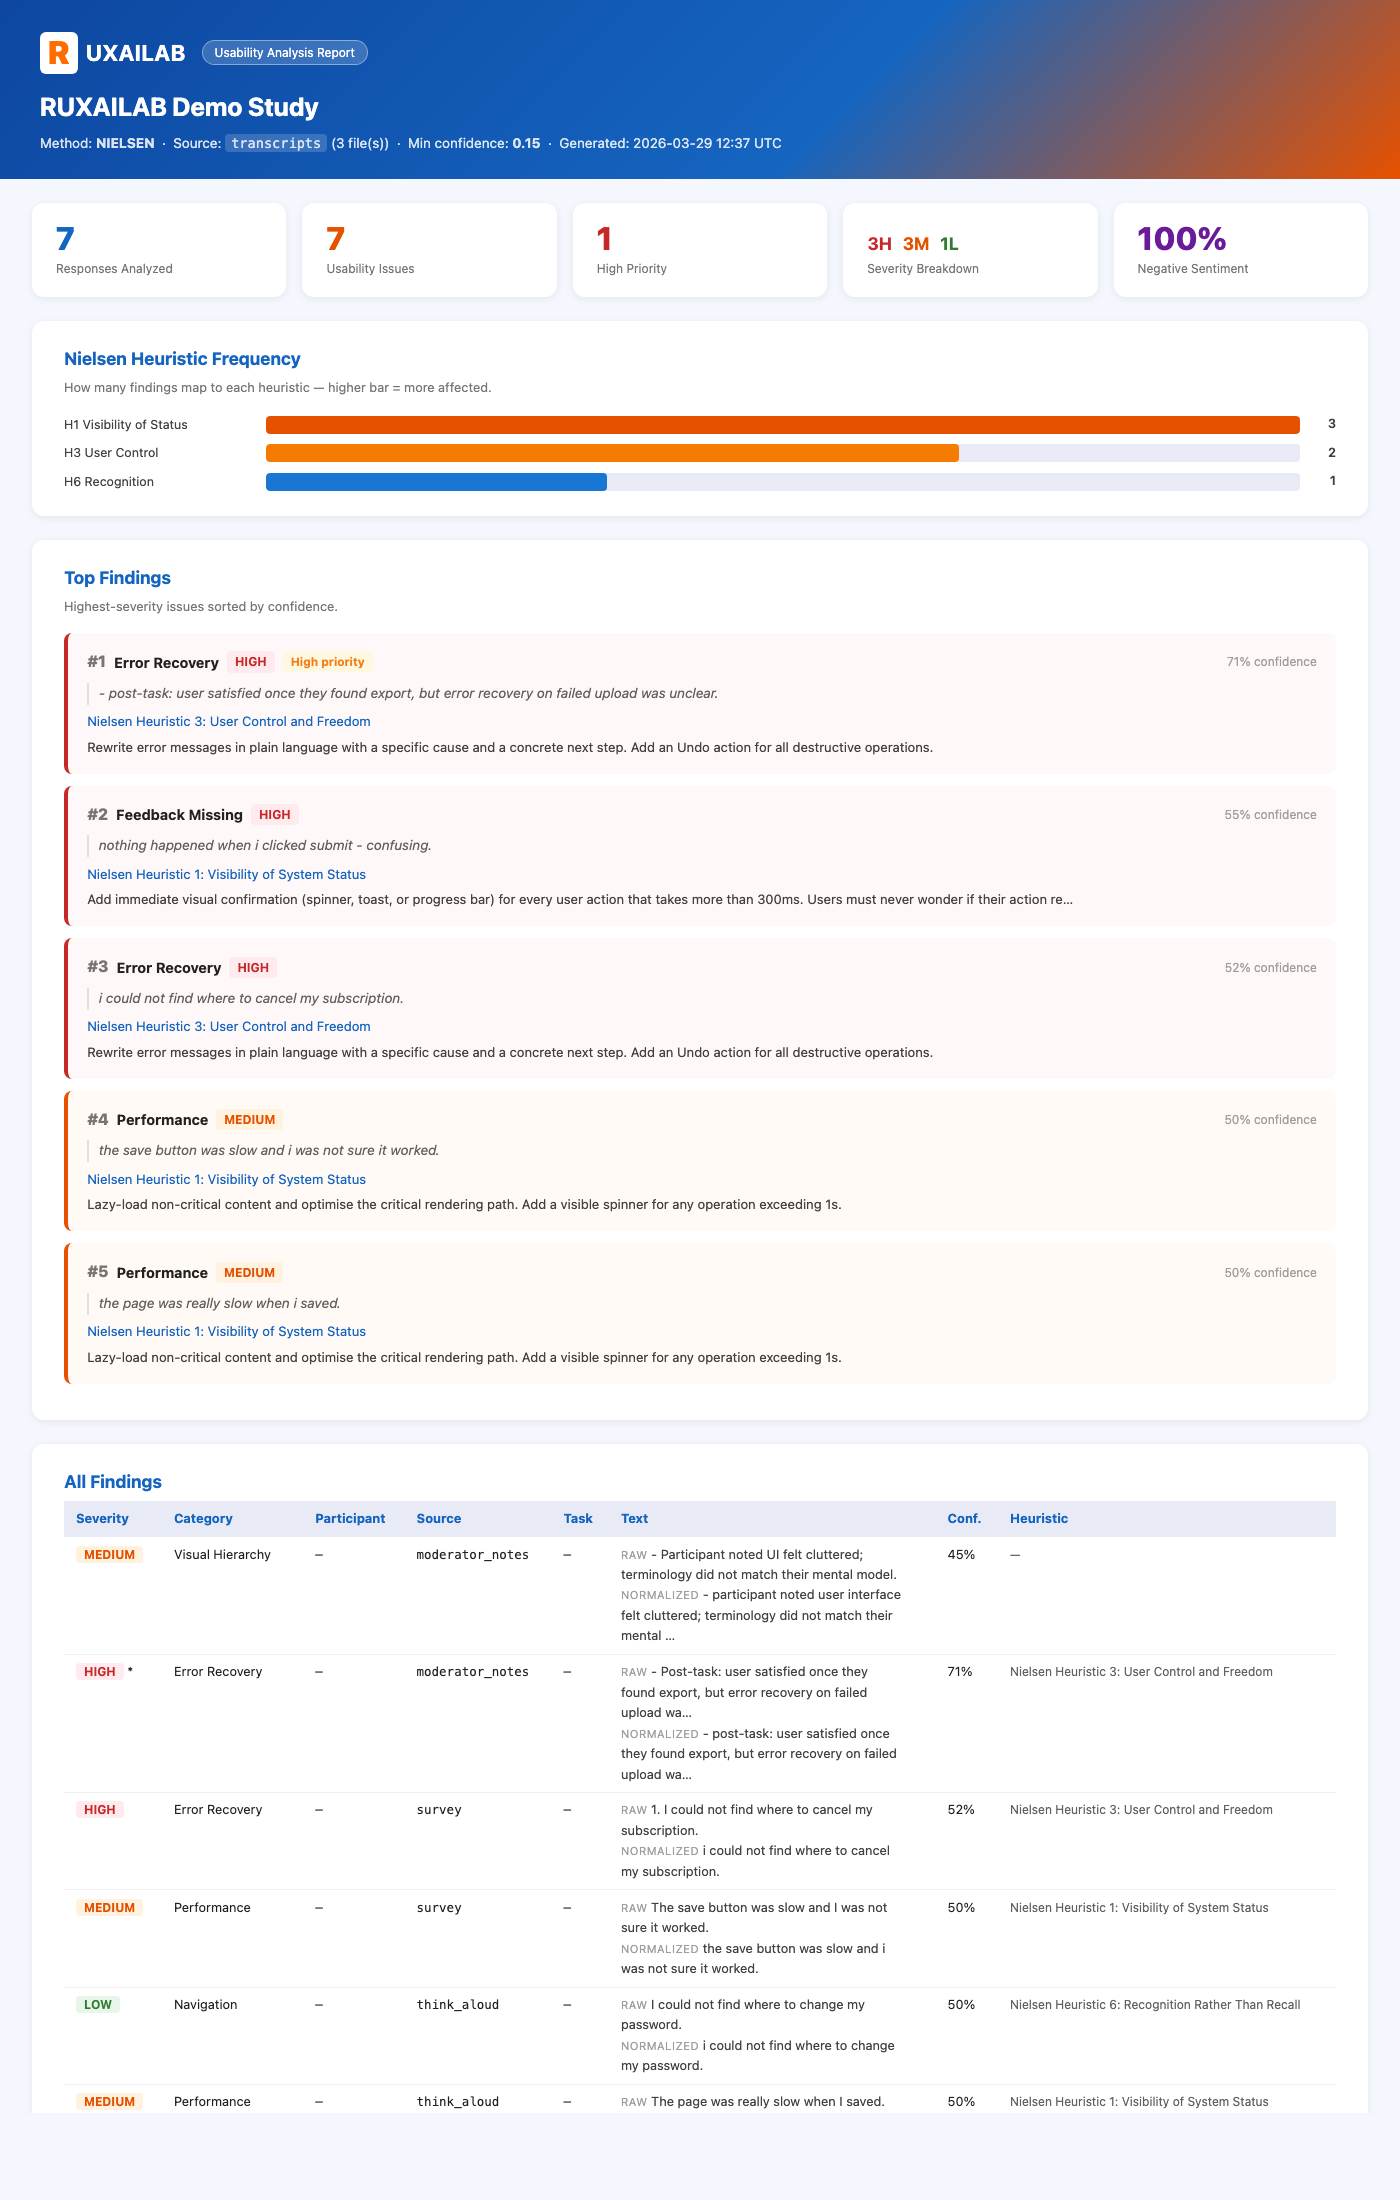
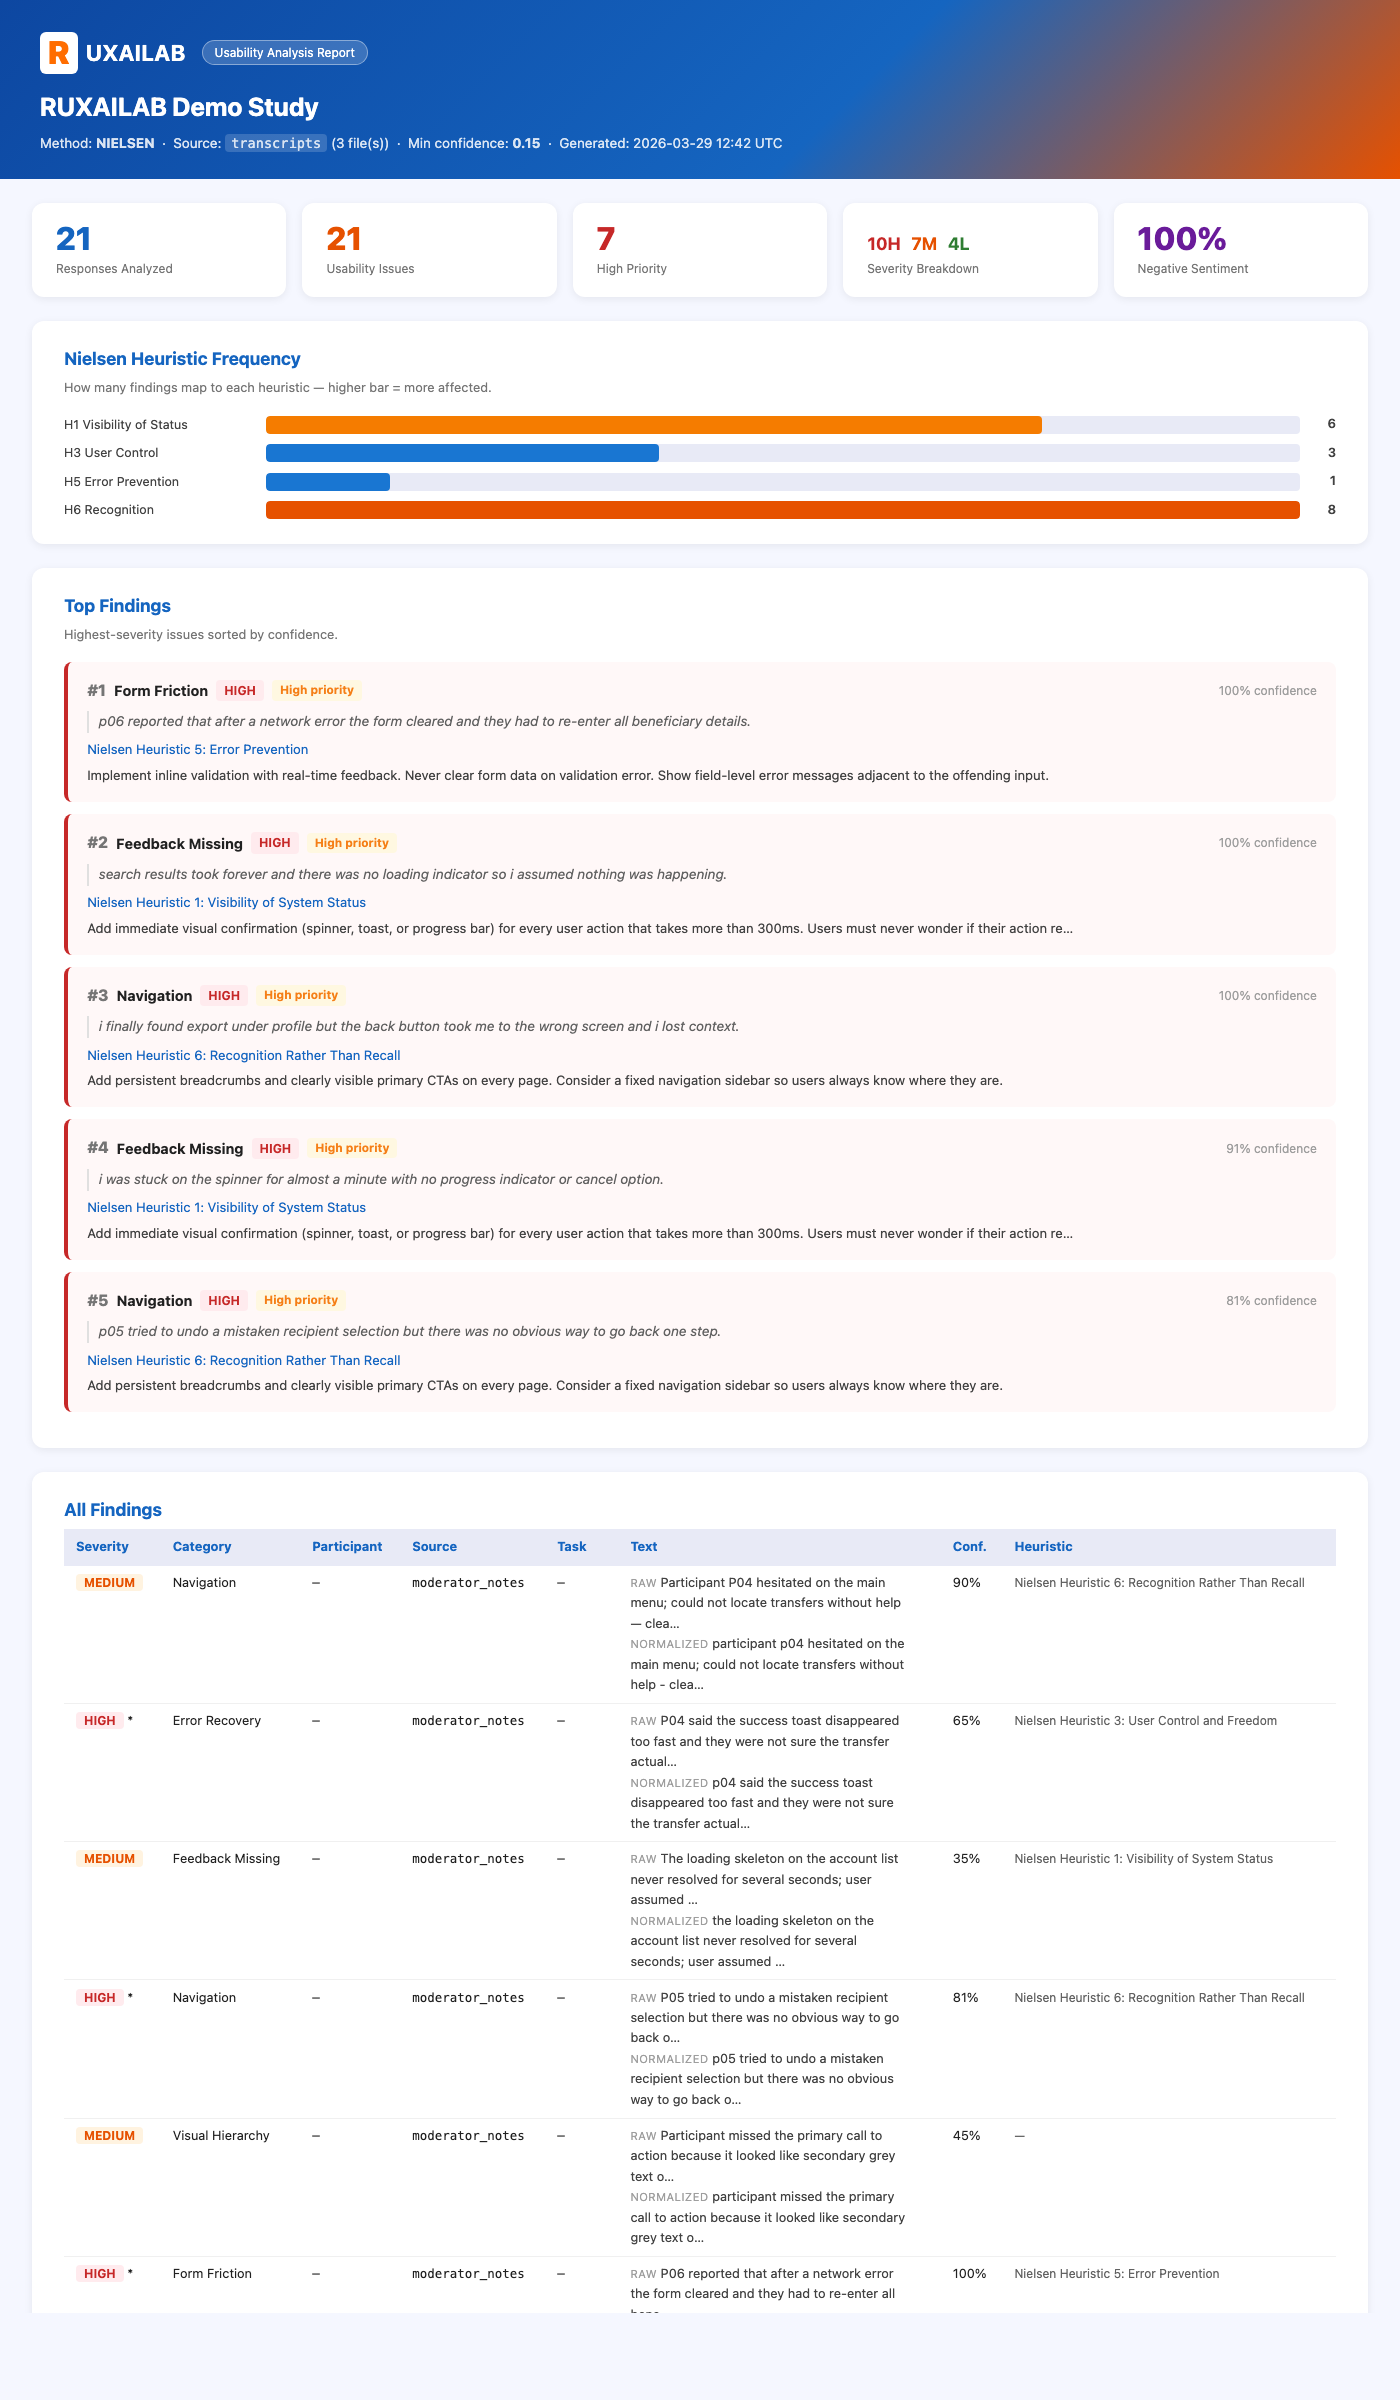
demo: richer transcripts, Sample Output section, refresh report screenshot
- Expand demo transcripts to 35 records across think-aloud, survey, moderator notes
- Add README ## Sample Output with single report_screenshot.png; dedupe Usage
- Regenerate docs/report_screenshot.png from updated pipeline output
- Note Sample HTML report figures may lag transcript changes

Made-with: Cursor

diff --git a/README.md b/README.md
@@ -137,9 +137,17 @@ transcripts/
 
 ---
 
+## Sample Output
+
+Top of the HTML report after `python3 analyze.py --input transcripts/` (demo transcripts: think-aloud, survey CSV, moderator notes — tens of utterances across multiple issue categories). For the full scrollable report with all findings and the reasoning appendix, run the CLI and open **`output/report.html`** locally.
+
+![Report](docs/report_screenshot.png)
+
+---
+
 ## Sample HTML report
 
-Below: screenshots from `python3 analyze.py --input transcripts/` (example title *RUXAILAB Demo Study*). Open **`output/report.html`** locally after running the CLI for the interactive version (expandable reasoning chains, print layout).
+Additional static captures of deeper sections (all-findings table, recommendations, explainability appendix). They may not match the latest transcript set pixel-for-pixel; re-capture from your local **`output/report.html`** after `analyze.py` if you need figures aligned with current data.
 
 ### Study overview
 
@@ -242,18 +250,12 @@ python3 analyze.py -i transcripts/ -o output/report.html --title "Q4 Study" --mi
 
 ```
 
-The generated HTML lives under **`output/`** (gitignored except `.gitkeep`), so mentors do not see it on GitHub. Below is a committed static capture of the top of that report (same content as after `analyze.py` on the demo transcripts).
-
-![Sample HTML report — header, KPIs, heuristic chart, top findings](docs/report_screenshot.png)
-
-To reproduce the full interactive HTML locally:
+The generated HTML lives under **`output/`** (gitignored except `.gitkeep`), so it is not on GitHub. A committed preview of the report header is in **[Sample Output](#sample-output)** above.
 
 ```bash
 python3 analyze.py --input transcripts/
 open output/report.html   # macOS; or open the file in your browser
 ```
-
-Then you get the full interactive report (KPI row, heuristic chart, all findings, recommendations, optional raw text / reasoning appendix).
 
 Unit tests: `python3 -m unittest discover -s tests -p 'test_*.py' -t .` (the `-t .` flag puts the project root on `sys.path`).
 
